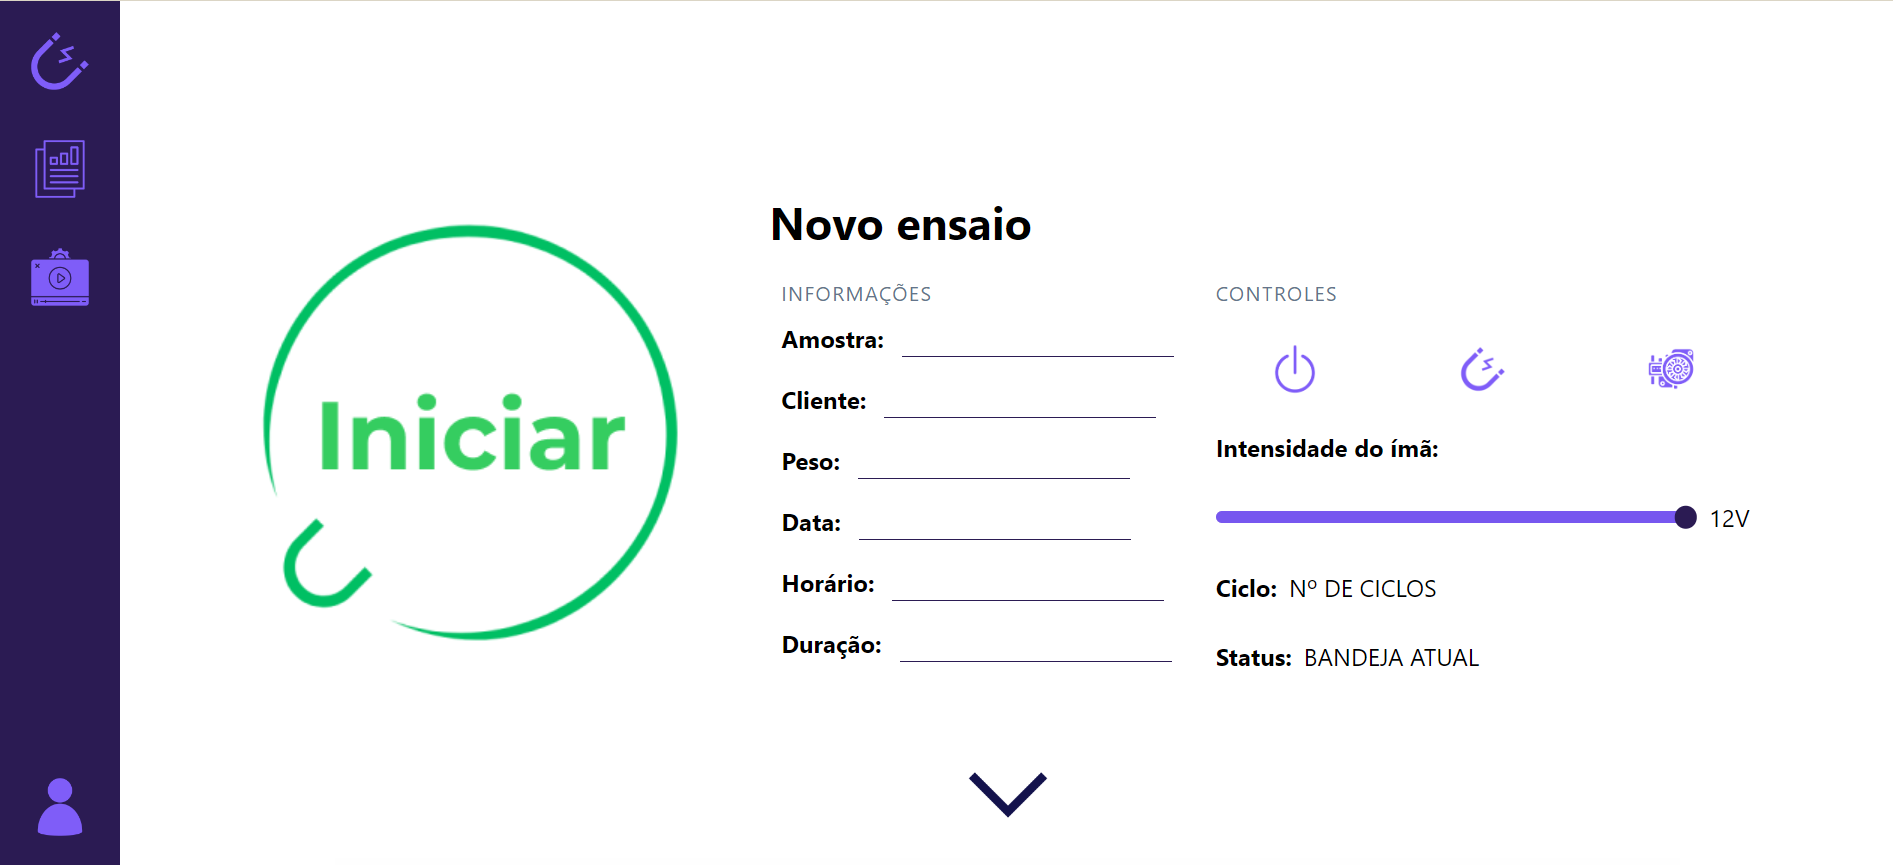
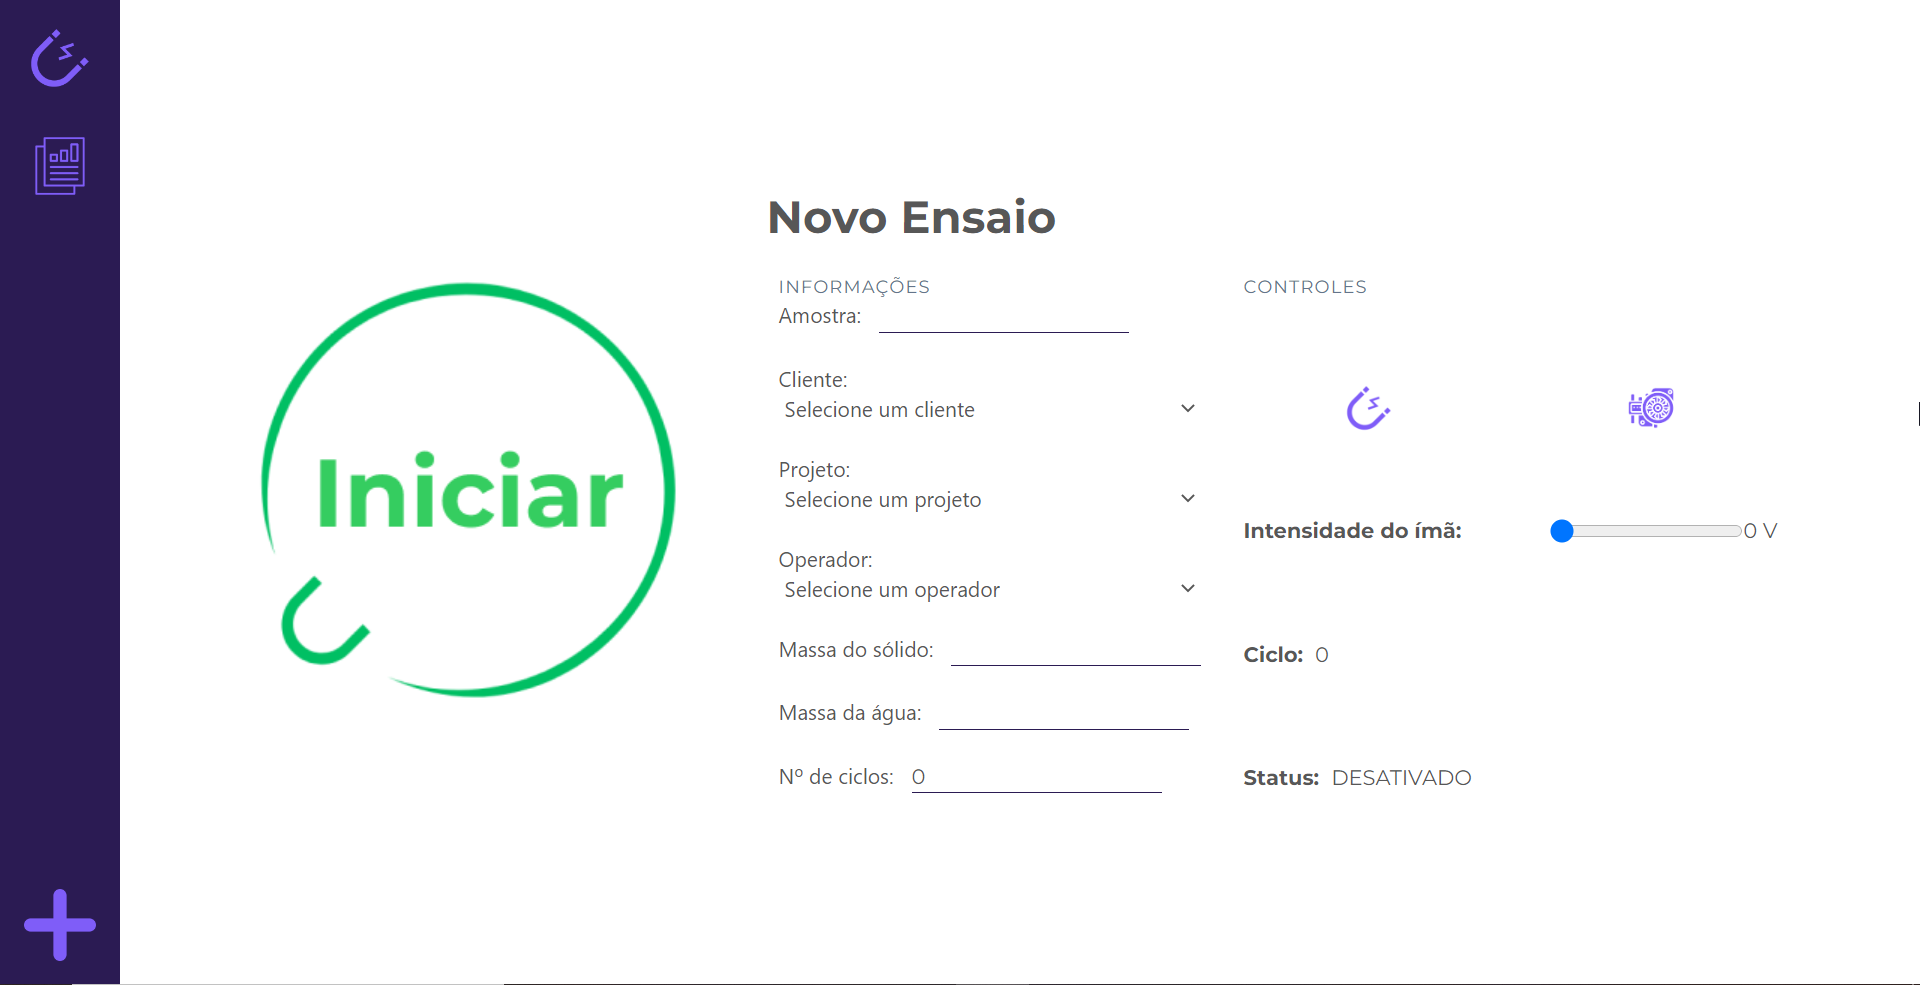
imagens de front

diff --git a/docs/index.md b/docs/index.md
@@ -33,6 +33,8 @@ Magnetum | Concepção de sistema de automação industrial para separação mag
   - [Diagrama geral](#diagrama-geral)
   - [Projeto mecânico](#projeto-mecânico)
     - [Validação dos dispositivos mecânicos fabricados](#validação-dos-dispositivos-mecânicos-fabricados)
+      - [Suporte para ímãs](#suporte-para-ímãs)
+      - [Case para PCB](#case-para-pcb)
   - [Projeto eletrônico](#projeto-eletrônico)
     - [Esquemático do circuito](#esquemático-do-circuito)
     - [Implementação do circuito](#implementação-do-circuito)
@@ -53,6 +55,7 @@ Magnetum | Concepção de sistema de automação industrial para separação mag
   - [Movimentação do robô](#movimentação-do-robô-1)
   - [Integração de hardware com frontend](#integração-de-hardware-com-frontend)
 - [Validação da eficácia do sistema](#validação-da-eficácia-do-sistema)
+    - [Relatório de entradas e saídas do teste final](#relatório-de-entradas-e-saídas-do-teste-final)
 - [Referências](#referências)
 
 
@@ -305,6 +308,8 @@ A figura abaixo apresenta as dimensões do braço robótico Magician Lite, confo
 
 ### Validação dos dispositivos mecânicos fabricados
 
+#### Suporte para ímãs
+#### Case para PCB
 
 ## Projeto eletrônico
 
@@ -649,7 +654,6 @@ O principal da célula de carga é que seu output é um valor alto, por volta do
 | Contagem de ciclos (interface gráfica) | Repetição dos ciclos (passadas) do robô em um mesmo ensaio    | Atualização do número de ciclos (passadas) no frontend.                          | Sucesso. A linha de contagem de ciclos mudou conforme o esperado.                                                                                                                                                                                  |
 | Contagem de ciclos (interface gráfica) | Finalização de um ensaio                                      | Reset da contagem de ciclos, voltando ao 0.                                      | Sucesso. Ao terminar um ensaio, assim que o robô parava de se movimentar, o contador voltava a 0.                                                                                                                                                  |
 
-
 # UX e UI Design
 
 Como linha geral, priorizamos elementos minimalistas, intuitivos e de fácil entendimento. Seguindo o estilo utilizado até agora nos slides e logotipos, apostamos em uma paleta de cores com alto contraste e foco em tons de roxo. 
@@ -744,20 +748,27 @@ Todos esses casos foram executados conforme o esperado, com as atualizações e 
 
 # Validação da eficácia do sistema
 
-Para garantir a eficácia e usabilidade do sistema, foram realizados testes simulando o cenário real de uso da solução criada. As bandejas foram cuidadosamente posicionadas e todo o sistema, desde as peças de hardware até o software, foi conectado. Foram utilizadas amostras reais cedidas pelo IPT, nosso parceiro no projeto, dos materiais que passam pelo processo de separação magnética. Após a ativação do sistema nessas condições, foi constatada a eficiência da solução na realização da separação magnética.
+Para garantir a eficácia e usabilidade do sistema, foram realizados testes simulando o cenário real de uso da solução criada. As bandejas foram cuidadosamente posicionadas e todo o sistema, desde as peças de hardware até o software, foi iniciado. Foram utilizadas amostras reais cedidas pelo IPT, nosso parceiro no projeto, dos materiais que passam pelo processo de separação magnética. Após a ativação do sistema nessas condições, foi constatada a eficiência da solução na realização da separação magnética. De fato, após algumas passadas, pudemos conferir o depósito de material magnético na última bandeja, a diminuição da massa na primeira bandeja e o escurecimento da água na segunda bandeja, evidenciando a transferência e limpeza dos minerais.
 
-[Funcionamesto completo da solução](https://drive.google.com/file/d/1dWlpdSFzFSZiAK777VvRBB2AGD83wIbd/view?usp=sharing)
+[Funcionamento completo da solução](https://drive.google.com/file/d/1dWlpdSFzFSZiAK777VvRBB2AGD83wIbd/view?usp=sharing)
 
 ### Relatório de entradas e saídas do teste final
 
-| Componente                                     | Entrada                                                               | Saída                                                                                                                             | Resultado do teste             |
-|------------------------------------------------|-----------------------------------------------------------------------|-----------------------------------------------------------------------------------------------------------------------------------|--------------------------------|
-| Braço robótico                                 | Acionamento após pressionar botão de início                           | Movimento de acordo com as coordenadas previstas.                                                                                 | Sucesso, correu como esperado  |
-| Eletroíma                                      | Pressionamento do botão de iniciar sistema                            | Eletroímã ligar na primeira e segunda bandeja e desligar na ultima para soltar material atraído.                                  | Sucesso, ocorreu como esperado |
-| Bomba d'água                                   | Pressionamento do botão de iniciar sistema                            | Bomba d'água ser ativada ao braço mecânico passar pela bandeja e desligar ao braço mudar de bandeja                               | Sucesso, ocorreu como esperado |
-| Acionamento de componentes                     | Pressionamento do botão de iniciar sistema                            | Braço robótico começa a se mover e componentes (bombas d'água e eletroímã) são ativados de acordo com a posição do braço robótico | Sucesso, ocorreu como esperado |
-| Contagem dos ciclos (interface gráfica)        | Preenchimento da quantidade de ciclos necessários e inicio do sistema | Indicação na interface gráfica da quantidade de ciclos realizados                                                                 | Sucesso, ocorreu como esperado |
-| Indicação de bandeja atual (interface gráfica) | Pressionamento do botão de iniciar sistema                            | Indicação na interface gráfica da posição do robo de acordo com bandeja em que braço robótico está                                | Sucesso, ocorreu como esperado |
+| **Componente**                                 | **Entrada**                                                                    | **Saída**                                                                                                                         | **Resultado do teste**         |
+|------------------------------------------------|--------------------------------------------------------------------------------|-----------------------------------------------------------------------------------------------------------------------------------|--------------------------------|
+| Braço robótico                                 | Acionamento após pressionar botão de início                                    | Movimento de acordo com as coordenadas previstas.                                                                                 | Sucesso, ocorreu como esperado |
+| Eletroímã                                      | Pressionamento do botão de iniciar sistema                                     | Eletroímã ligar na primeira e segunda bandeja e desligar na ultima para soltar material atraído.                                  | Sucesso, ocorreu como esperado |
+| Eletroímã                                      | Alteração do input no slider de intensidade magnética                          | Alteração proporcional na voltagem recebida pelo eletroímã                                                                        | Sucesso, ocorreu como esperado |
+| Bomba d'água                                   | Pressionamento do botão de iniciar sistema                                     | Bomba d'água ser ativada ao braço mecânico passar pela bandeja e desligar ao braço mudar de bandeja                               | Sucesso, ocorreu como esperado |
+| Acionamento de componentes                     | Pressionamento do botão de iniciar sistema                                     | Braço robótico começa a se mover e componentes (bombas d'água e eletroímã) são ativados de acordo com a posição do braço robótico | Sucesso, ocorreu como esperado |
+| Contagem dos ciclos (interface gráfica)        | Preenchimento da quantidade de ciclos necessários e inicio do sistema          | Indicação na interface gráfica da quantidade de ciclos realizados                                                                 | Sucesso, ocorreu como esperado |
+| Indicação de bandeja atual (interface gráfica) | Pressionamento do botão de iniciar sistema                                     | Indicação na interface gráfica da posição do robô de acordo com bandeja em que braço robótico está                                | Sucesso, ocorreu como esperado |
+| Integração com banco de dados                  | Acesso à página principal da interface gráfica                                 | Atualização dos itens nos dropdowns da página principal conforme cliente, usuário e projeto selecionados                          | Sucesso, ocorreu como esperado |
+| Integração com banco de dados                  | Acesso à página de adição de componentes                                       | Atualização das tabelas de usuários, clientes e projetos conforme itens relacionados do banco de dados                            | Sucesso, ocorreu como esperado |
+| Integração com banco de dados                  | Pressionamento do botão de adicionar das tabelas de cliente, projeto e usuário | Adição de novos itens na tabela mesmo após recarregamento da página                                                               | Sucesso, ocorreu como esperado |
+| Integração com banco de dados                  | Acesso à página de histórico                                                   | Atualização dos cards com os ensaios já realizados                                                                                | Sucesso, ocorreu como esperado |
+| Integração com banco de dados                  | Pressionamento no botão de um dos cards da página de histórico                 | Abertura de modal com mais informações, relacionando dados das tabelas de ensaio, usuário, cliente, projeto e ciclo               | Sucesso, ocorreu como esperado |
+
 
 
 # Referências
